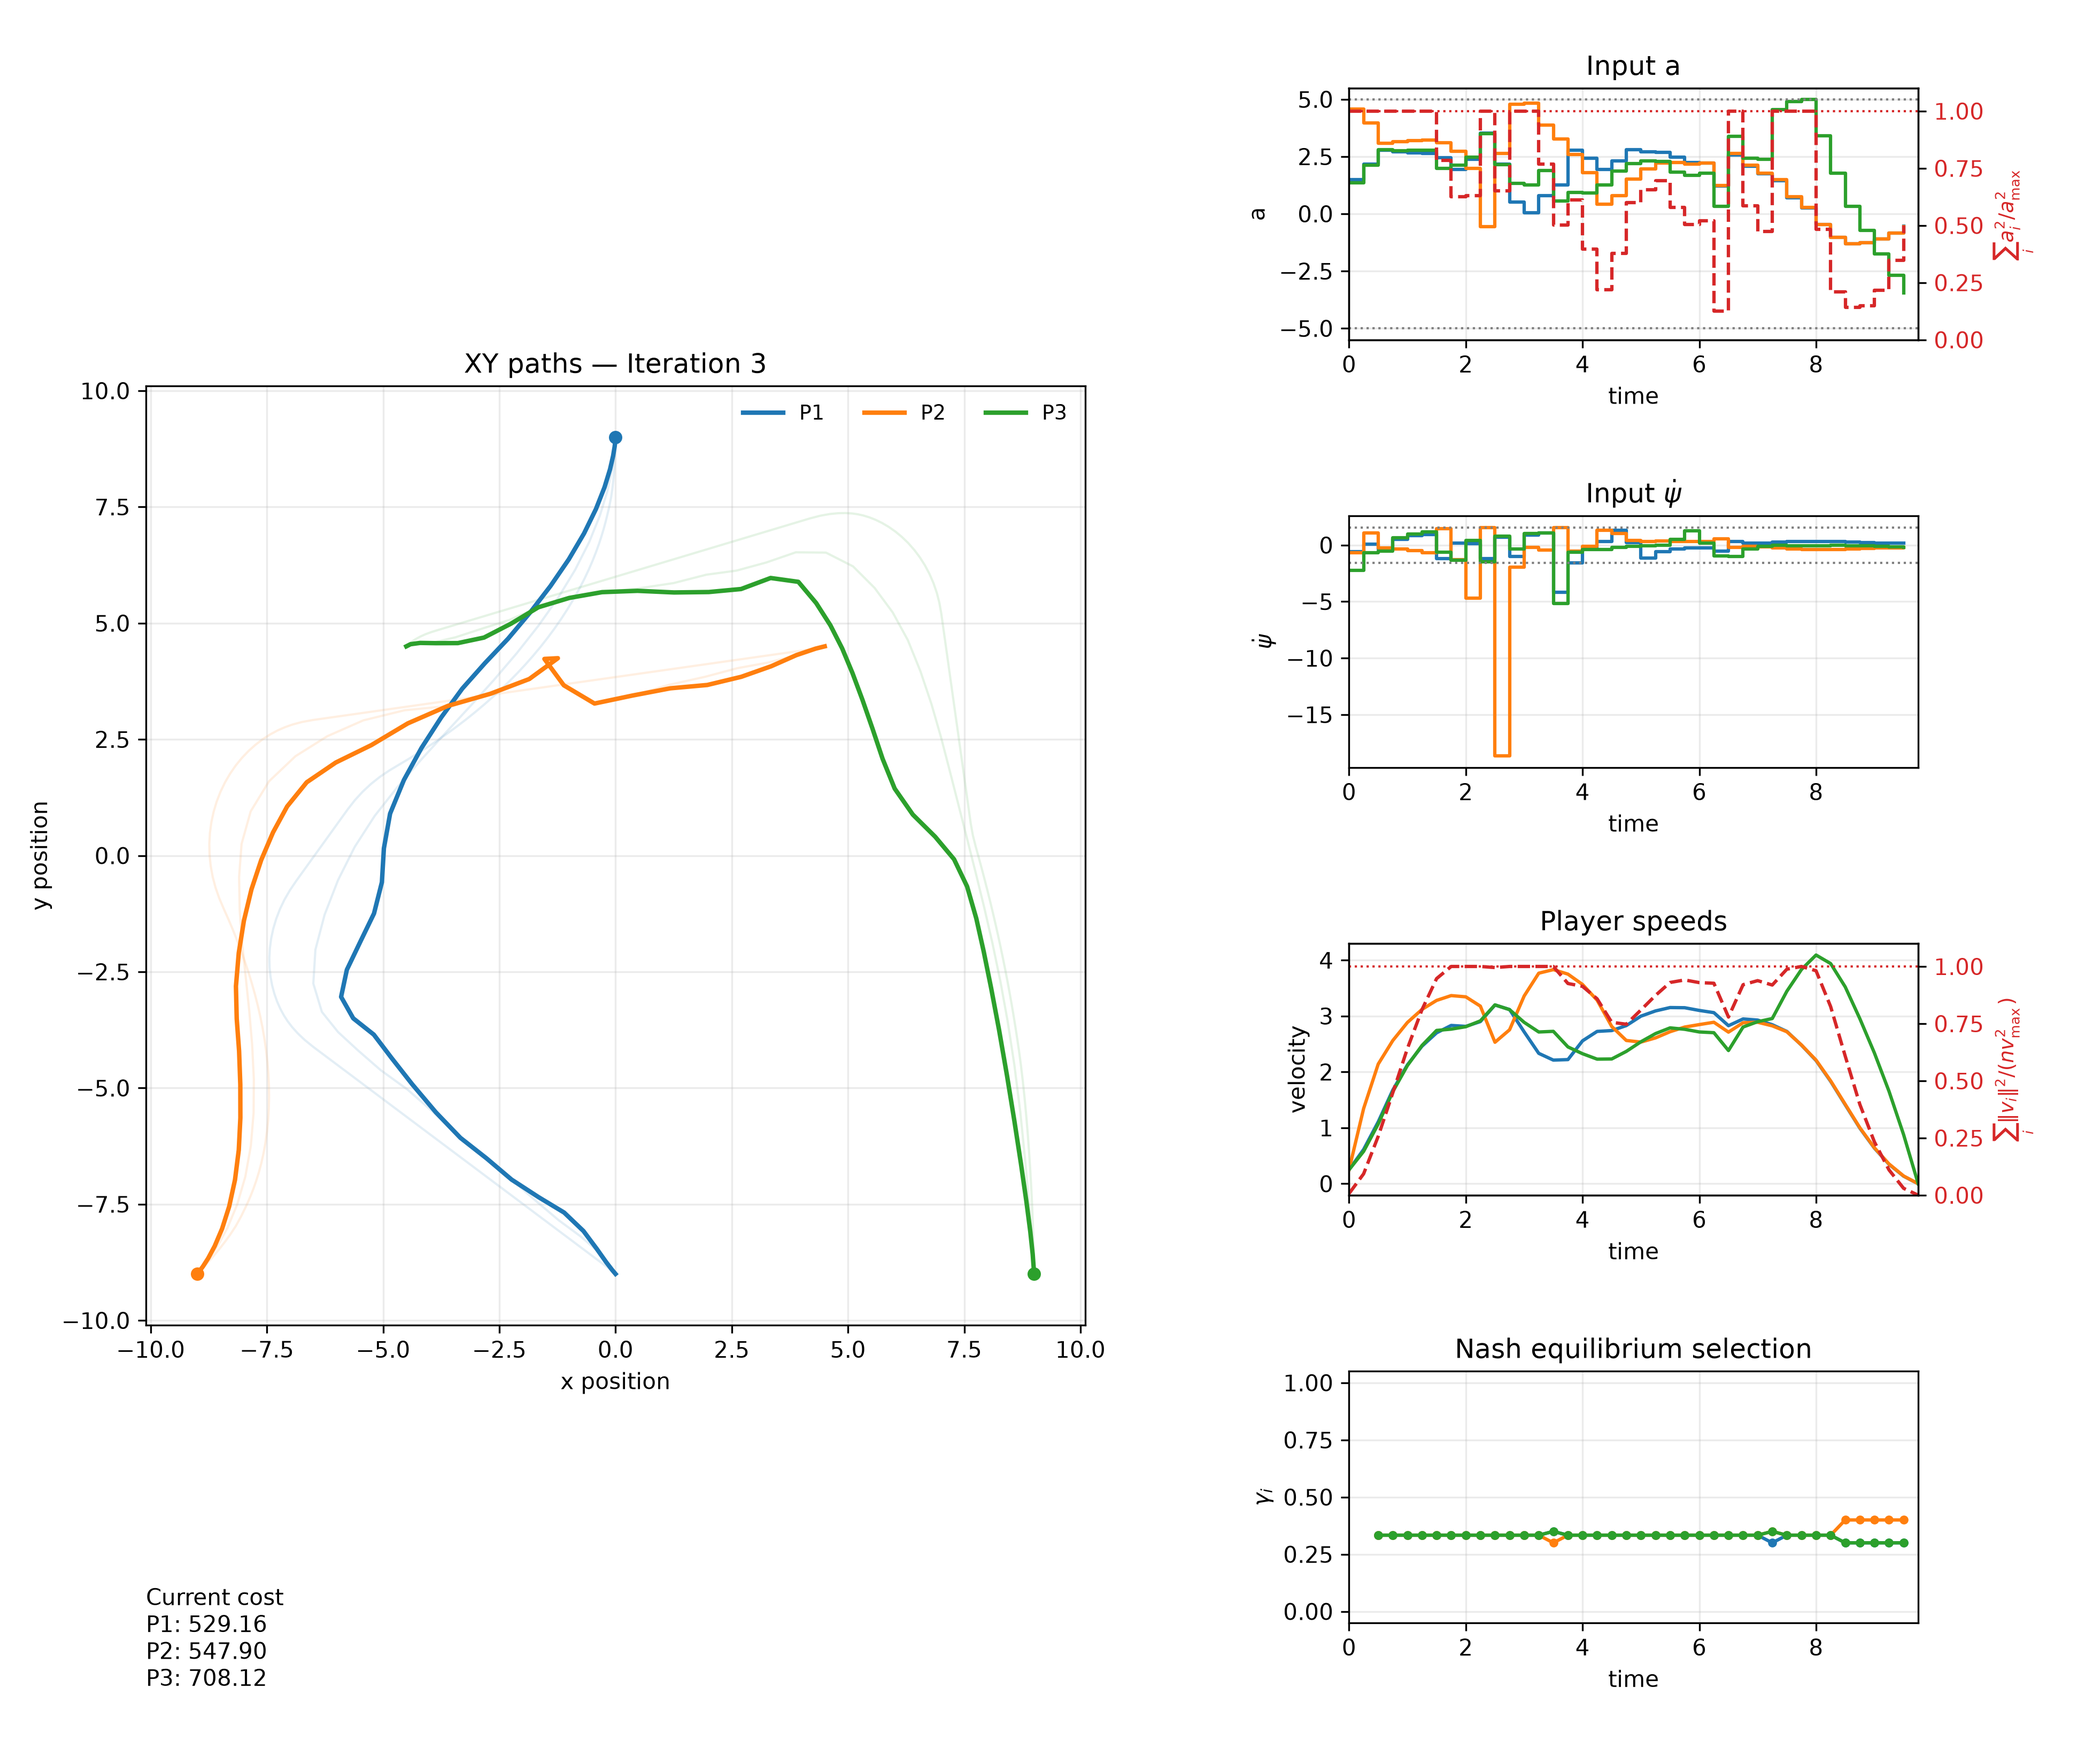
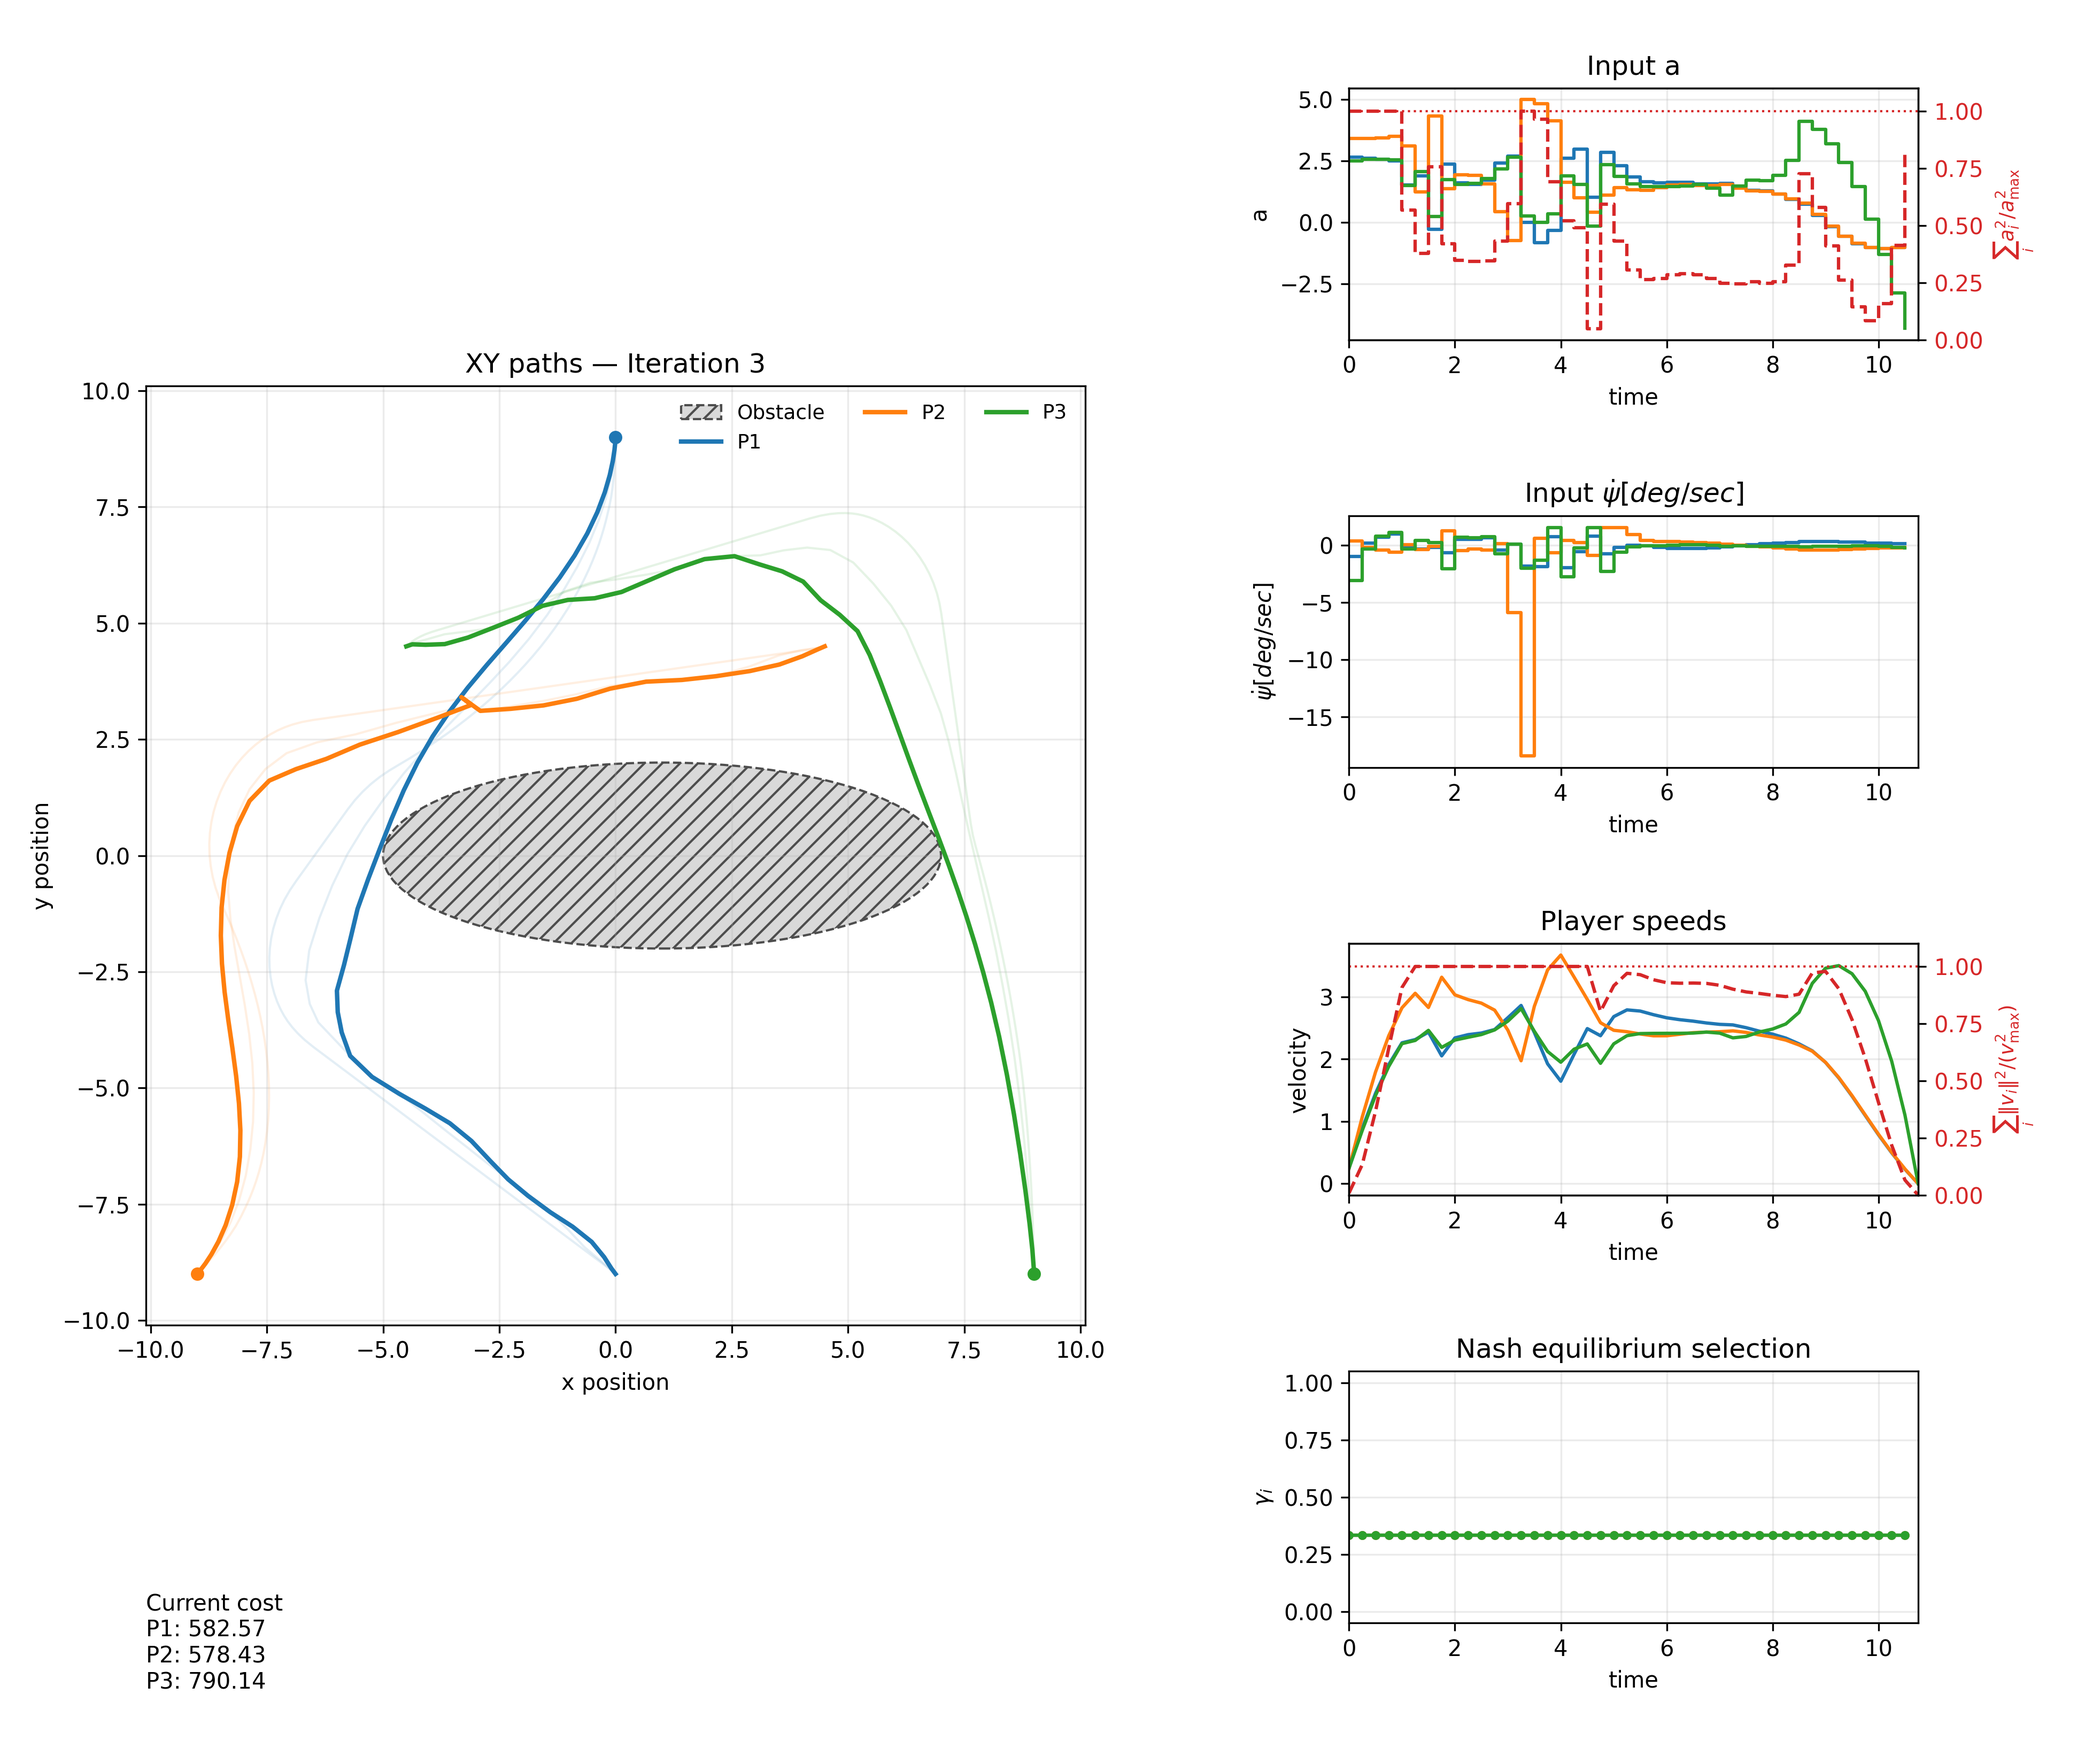
remove psi wrapper

diff --git a/DGSolver.py b/DGSolver.py
@@ -2799,9 +2799,12 @@ class DGSolver:
         opti.set_value(self.mpc_x0, x0)
         opti.set_value(self.mpc_xf, xf)
         
-        opti.set_initial(self.mpc_x, np.linspace(x0, xf, self.N+1).T)
-        opti.set_initial(self.mpc_u, np.zeros((self.game.nu, self.N)))
+
         try:
+            for p in range(self.game.n_players):
+                xp_sol, up_sol = self.SinglePlayerMpcController(x0, xf, p)
+                opti.set_initial(self.mpc_x[p*self.game.nx1:(p+1)*self.game.nx1,:], xp_sol.T)
+                opti.set_initial(self.mpc_u[p*self.game.nu1:(p+1)*self.game.nu1,:], up_sol.T)
             opti.solve()
         except:
             return False, 0, 0
@@ -2850,3 +2853,52 @@ class DGSolver:
         
         return
         
+    def SinglePlayerMpcController(self, x0, xf, p):
+        """Return the same bounded goal-tracking controller for player 3."""
+        
+        opti = ca.Opti()
+        N = self.N
+        x = opti.variable(self.game.nx1, N+1)
+        u = opti.variable(self.game.nu1, N)
+        
+        opti.subject_to(x[:,0] == x0[p*self.game.nx1:(p+1)*self.game.nx1])
+        for k in range(N):
+            opti.subject_to(x[:,k+1] == self.game.dynamics_fun(x[:,k], u[:,k]))
+            f_private = self.game.f_private(x[:,k], u[:,k])
+            [opti.subject_to(f >= 0) for f in f_private]
+        opti.subject_to(x[:,N] == xf[p*self.game.nx1:(p+1)*self.game.nx1])
+                
+        cost = 0
+        for k in range(N):
+            cost += self.stage_costs[p](x[:,k], u[:,k])
+        opti.minimize(cost)
+        
+        p_opts = {"print_time": 0, "ipopt": {"max_iter": 500, "print_level": 0, "mu_strategy": "adaptive"}}
+        
+        
+        opti.solver("ipopt", p_opts)
+        opti.set_initial(x, np.linspace(x0[p*self.game.nx1:(p+1)*self.game.nx1], xf[p*self.game.nx1:(p+1)*self.game.nx1], self.N+1).T)
+        opti.set_initial(u, np.zeros((self.game.nu1, self.N)))
+        
+        u_guess = np.zeros((self.game.nu1, N))
+
+        x_guess = np.zeros((self.game.nx1, N + 1))
+        x_guess[:, 0] = x0[p*self.game.nx1:(p+1)*self.game.nx1]
+
+        for k in range(N):
+            x_guess[:, k + 1] = np.array(
+                self.game.dynamics_fun(
+                    x_guess[:, k],
+                    u_guess[:, k]
+                )
+            ).squeeze()
+
+        opti.set_initial(x, x_guess)
+        opti.set_initial(u, u_guess)
+        
+        opti.solve()
+
+        x_sol = opti.debug.value(x).T
+        u_sol = opti.debug.value(u).T
+        
+        return x_sol, u_sol

diff --git a/Game.py b/Game.py
@@ -141,8 +141,8 @@ class GameDynamics:
             self.f_private = ca.Function(
                 'f_private', [x1_sym, u1_sym], [
                     x1_sym[2] - self.v_min,
-                    u1_sym[1]/steering_min+1,
-                    1-u1_sym[1]/steering_max,
+                    u1_sym[1] - steering_min,
+                    steering_max - u1_sym[1],
                     (x1_sym[0] - self.x_elip)**2/self.a_elip**2 + (x1_sym[1] - self.y_elip)**2/self.b_elip**2-1,
                 ],
             )
@@ -190,11 +190,11 @@ class GameDynamics:
         k4 = self.dynamics(x1_sym + dt * k3, u1_sym)
         self.xkp1 = x1_sym + (dt / 6.0) * (k1 + 2.0 * k2 + 2.0 * k3 + k4)
 
-        if self.has_heading_state:
-            theta = self.xkp1[3]
-            self.xkp1[3] = theta - 2 * ca.pi * ca.floor(
-                    (theta + ca.pi) / (2 * ca.pi)
-        )
+        # if self.has_heading_state:
+        #     theta = self.xkp1[3]
+        #     self.xkp1[3] = theta - 2 * ca.pi * ca.floor(
+        #             (theta + ca.pi) / (2 * ca.pi)
+        # )
 
         self.dynamics_fun = ca.Function('fdynamics_fun', [x1_sym, u1_sym], [self.xkp1])
         
@@ -425,10 +425,10 @@ class GameDynamics:
         self.t += dt
         
         # if x[3] is angle, make sure it is in [-pi, pi]:
-        if self.has_heading_state:
-            for player in range(self.n_players):
-                offset = player * self.nx1 + 3
-                self.x[offset] = (self.x[offset] + np.pi) % (2 * np.pi) - np.pi
+        # if self.has_heading_state:
+        #     for player in range(self.n_players):
+        #         offset = player * self.nx1 + 3
+        #         self.x[offset] = (self.x[offset] + np.pi) % (2 * np.pi) - np.pi
 
         if not self._private_constraints_satisfied(self.x, controls):
             self._log_history(u, self.PRIVATE_CONSTRAINT_VIOLATED)

diff --git a/SimulationPlot.py b/SimulationPlot.py
@@ -217,7 +217,7 @@ def save_iteration_figure(
     ax.grid(True, alpha=0.25)
     ax.legend(loc="best", ncol=game.n_players, frameon=False, fontsize=9)
     if game.is_unicycle:
-        input_labels = ("a", r"$\dot{\psi}$" if game.has_heading_state else r"$\psi$")
+        input_labels = ("a", r"$\dot{\psi}[deg/sec]$" if game.has_heading_state else r"$\psi[deg]$")
     else:
         prefix = "v" if game.is_single_integrator else "a"
         input_labels = (f"{prefix}x", f"{prefix}y")
@@ -507,7 +507,7 @@ def plot_simulation_init(game):
 
     if game.is_unicycle:
         input_x_label = "a"
-        input_y_label = r"$\dot{\psi}$" if game.has_heading_state else r"$\psi$"
+        input_y_label = r"$\dot{\psi[deg/sec]}$" if game.has_heading_state else r"$\psi[deg]$"
     else:
         input_label = "v" if game.is_single_integrator else "a"
         input_x_label, input_y_label = f"{input_label}x", f"{input_label}y"
@@ -664,7 +664,10 @@ def plot_simulation_init(game):
     }
     plot_simulation._state = state
     if plt.get_backend().lower() != "agg":
-        plt.pause(1.0)
+        if game.iteration == 1:
+            plt.pause(0.01)
+        else:
+            plt.pause(0.2)
 
 def plot_simulation(game, solver1, LearnedData, pause=0.01):
     """Update a realtime plot for the current game and solver state."""
@@ -1099,6 +1102,10 @@ def plot_simulation(game, solver1, LearnedData, pause=0.01):
     valid_u = np.isfinite(u).all(axis=1)
     tu = t[:-1][valid_u]
     uu = u[valid_u]
+    if game.is_unicycle:
+        for player in range(game.n_players):
+            uu[:,player+1] = np.rad2deg(uu[:,player+1])
+            
     for component, suffix in enumerate(("ax", "ay")):
         for player in range(game.n_players):
             lines[f"p{player + 1}_{suffix}"].set_data(

diff --git a/LDG_Simulation.py b/LDG_Simulation.py
@@ -53,7 +53,7 @@ x2f = np.array([player_state(-9.0, -9.0, psi=np.deg2rad(-135), dynamics_type=dyn
 x3f = np.array([player_state(9.0, -9.0, psi=np.deg2rad(-90), dynamics_type=dynamics_type)])
 x0_players = (
     player_state(0.0, -9.0, vx=0.25, psi=np.deg2rad(135), dynamics_type=dynamics_type),
-    player_state(4.5, 4.5, vx=0.25, psi=np.deg2rad(-160), dynamics_type=dynamics_type),
+    player_state(4.5, 4.5, vx=0.25, psi=np.deg2rad(-170), dynamics_type=dynamics_type),
     player_state(-4.5, 4.5, vx=0.25, psi=np.deg2rad(45), dynamics_type=dynamics_type),
 )
 alpha1, alpha2 = 1/3.0, 1/3.0
@@ -259,7 +259,8 @@ if __name__ == '__main__':
             shared_constraint_active |= is_shared_constraint_active(Game, Game.x, u)
             GameFlag = Game.step(u=u)
             shared_constraint_active |= is_shared_constraint_active(Game, Game.x, u)
-            plot_simulation(Game, Solver1, LearnedData)
+            if iter > 0 or int(Game.t*10)%100 == 0:
+                plot_simulation(Game, Solver1, LearnedData)
             
             default_gamma = (
                 np.array([alpha1, alpha2]) if player_count == 3 else alpha1
